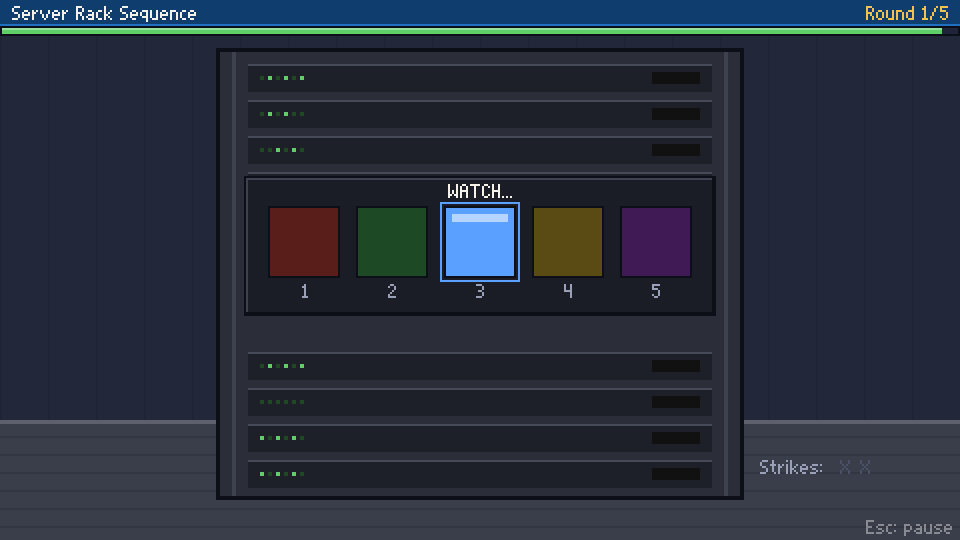
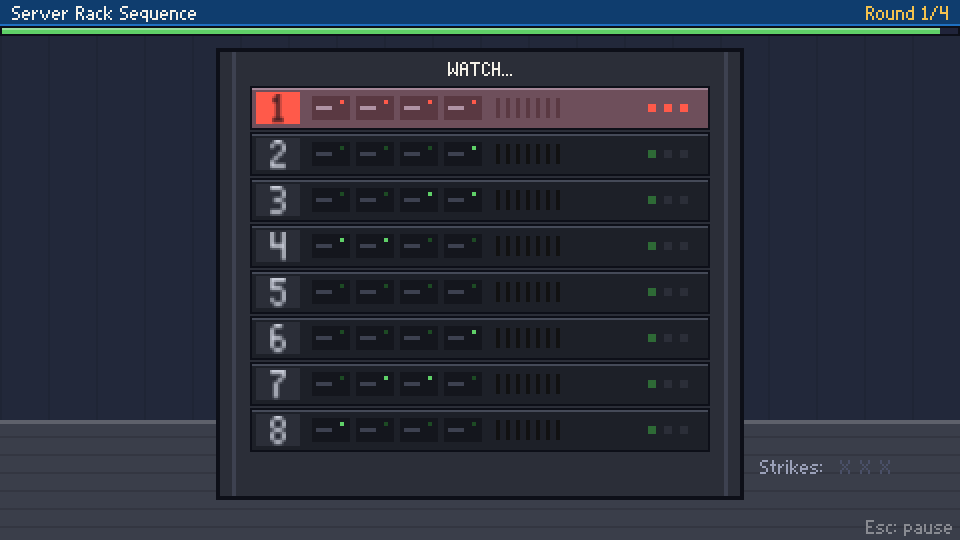
Server Rack Sequence: eight numbered servers blink instead of coloured boxes
The rack holds servers 1-8; a blinking server lights its number plate, lights and panel in its colour.
Repeat the sequence with keys 1-8, Up/Down + Space/Enter (moving the cursor resets the idle timeout) or
a click. Guide text and screenshot updated.

Claude-Session: https://claude.ai/code/session_01M4xUiXTiGzBdKzKAVtQwx8

Changed region(s): [[0.25, 0.1185, 0.75, 0.8889]]

diff --git a/src/minigames/simon.js b/src/minigames/simon.js
@@ -1,24 +1,20 @@
-// Server Rack Sequence: watch the LEDs blink, then repeat the sequence. It grows each round.
-import { W, H, C, rect, frame, panel, drawText, backdrop, header, timerBar, Floaters, Shake, Countdown, byDiff, finish } from '../engine/mgkit.js';
+// Server Rack Sequence: watch the numbered servers in the rack blink, then repeat the sequence. It grows each round.
+import { W, C, rect, frame, drawText, backdrop, header, timerBar, Floaters, Shake, Countdown, byDiff, finish } from '../engine/mgkit.js';
 
-const LEDS = [
-  { on: '#ff5a4a', off: '#5a1e1a' },
-  { on: '#5fe070', off: '#1d4a24' },
-  { on: '#5aa0ff', off: '#1a2e55' },
-  { on: '#ffd84a', off: '#5a4a14' },
-  { on: '#d070ff', off: '#401a55' },
-  { on: '#ff9a3a', off: '#5a3210' },
-];
+const N = 8; // servers in the rack, numbered 1-8 from the top
+const GLOW = ['#ff5a4a', '#5fe070', '#5aa0ff', '#ffd84a', '#d070ff', '#ff9a3a', '#4ae0d8', '#ff7ab8']; // each server's light
+const RACK = { x: 110, y: 24, w: 260, h: 226 };
+const UNIT = { x: RACK.x + 16, w: RACK.w - 32, h: 20, step: 23, top: 44 };
+const unitY = (i) => UNIT.top + i * UNIT.step;
 
 export default {
   id: 'simon',
   name: 'Server Rack Sequence',
-  help: 'Watch the lights, then repeat them with keys 1-6 or by clicking. Each round adds one more.',
+  help: 'Watch the servers blink, then repeat them: keys 1-8, Up/Down + Space, or click a server. Each round adds one more.',
   create({ difficulty: d, rng, theme, sfx = () => {} }) {
-    const n = d < 0.34 ? 4 : d < 0.67 ? 5 : 6;
     const maxLen = Math.round(byDiff(d, 5, 9));
     const rounds = maxLen - 2;
-    const seq = Array.from({ length: maxLen }, () => rng.int(0, n - 1));
+    const seq = Array.from({ length: maxLen }, () => rng.int(0, N - 1));
     const flashT = byDiff(d, 0.55, 0.3);
     const gapT = flashT * 0.45;
     const maxStrikes = d < 0.5 ? 3 : 2;
@@ -36,12 +32,7 @@ export default {
     let litT = 0;
     let status = 'WATCH...';
     let anim = 0;
-
-    const ledW = 34;
-    const gap = 10;
-    const rowW = n * ledW + (n - 1) * gap;
-    const ledX = (i) => W / 2 - rowW / 2 + i * (ledW + gap);
-    const ledY = 104;
+    let cursor = 0; // the server Up/Down points at (Space/Enter pushes it)
 
     function startShow() {
       phase = 'show';
@@ -67,7 +58,7 @@ export default {
           t = 0.7;
           status = 'NICE!';
         }
-      } else fail('Wrong light!');
+      } else fail('Wrong server!');
     }
 
     function fail(msg) {
@@ -110,13 +101,17 @@ export default {
           }
         } else if (phase === 'input') {
           idle += dt;
-          for (let i = 0; i < n; i++) if (input.pressedExact(String(i + 1))) return press(i);
-          const p = input.pointer;
-          if (p.clicked) {
-            for (let i = 0; i < n; i++) {
-              if (p.x >= ledX(i) && p.x < ledX(i) + ledW && p.y >= ledY && p.y < ledY + ledW) return press(i);
-            }
+          for (let i = 0; i < N; i++) if (input.pressedExact(String(i + 1))) return press(i);
+          if (input.pressed('ArrowUp') || input.pressed('ArrowDown')) {
+            cursor = (cursor + (input.pressed('ArrowUp') ? N - 1 : 1)) % N;
+            idle = 0; // walking the cursor down the rack takes a moment
+            sfx('click');
           }
+          if (input.confirm()) return press(cursor);
+          const p = input.pointer;
+          const over = unitAt(p);
+          if (over >= 0 && p.moved) cursor = over;
+          if (p.clicked && over >= 0) return press(over);
           if (idle > 6) fail('Timed out!');
         } else if (phase === 'pause') {
           t -= dt;
@@ -129,37 +124,18 @@ export default {
         backdrop(g, { wall: '#22283a', desk: '#3a3e4a' });
         header(g, theme?.title || 'Server Rack Sequence', `Round ${Math.min(completed + 1, rounds)}/${rounds}`);
         timerBar(g, total.left, total.total);
-        // Rack cabinet.
-        const rx = 110;
-        const rw = 260;
-        rect(g, rx - 2, 24, rw + 4, 226, C.border);
-        rect(g, rx, 26, rw, 222, '#2b2e38');
-        rect(g, rx + 6, 26, 2, 222, '#3d4150');
-        rect(g, rx + rw - 8, 26, 2, 222, '#3d4150');
-        for (let y = 32; y < 244; y += 18) {
-          if (y > 86 && y < 160) continue;
-          rect(g, rx + 14, y, rw - 28, 14, '#1d2028');
-          rect(g, rx + 14, y, rw - 28, 1, '#454a58');
-          for (let k = 0; k < 6; k++) rect(g, rx + 20 + k * 4, y + 6, 2, 2, Math.sin(anim * 7 + y + k * 3) > 0.3 ? '#5fd068' : '#1d4a24');
-          rect(g, rx + rw - 44, y + 4, 24, 6, '#111');
-        }
-        // LED panel.
-        panel(g, rx + 12, 88, rw - 24, 70, { fill: '#1a1d26', light: '#3d4150', dark: '#0d0f18' });
-        for (let i = 0; i < n; i++) {
-          const x = ledX(i);
-          const on = lit === i && (phase === 'show' || litT > 0);
-          rect(g, x - 1, ledY - 1, ledW + 2, ledW + 2, C.border);
-          rect(g, x, ledY, ledW, ledW, on ? LEDS[i].on : LEDS[i].off);
-          if (on) {
-            rect(g, x + 3, ledY + 3, ledW - 6, 4, 'rgba(255,255,255,0.55)');
-            frame(g, x - 3, ledY - 3, ledW + 6, ledW + 6, LEDS[i].on);
-          }
-          drawText(g, String(i + 1), x + ledW / 2, ledY + ledW + 4, { align: 'center', color: C.dim });
-        }
-        drawText(g, status, W / 2, 92, { align: 'center', color: phase === 'input' ? C.gold : C.text });
+        // Rack cabinet: rails, then the eight numbered servers.
+        rect(g, RACK.x - 2, RACK.y, RACK.w + 4, RACK.h, C.border);
+        rect(g, RACK.x, RACK.y + 2, RACK.w, RACK.h - 4, '#2b2e38');
+        rect(g, RACK.x + 6, RACK.y + 2, 2, RACK.h - 4, '#3d4150');
+        rect(g, RACK.x + RACK.w - 8, RACK.y + 2, 2, RACK.h - 4, '#3d4150');
+        drawText(g, status, W / 2, RACK.y + 7, { align: 'center', color: phase === 'input' ? C.gold : C.text });
+        for (let i = 0; i < N; i++) drawServer(g, i, lit === i && (phase === 'show' || litT > 0));
+        // The cursor last, so the server below doesn't cover its bottom edge.
+        if (phase === 'input') frame(g, UNIT.x - 2, unitY(cursor) - 2, UNIT.w + 4, UNIT.h + 4, C.gold);
         // Progress + strikes.
         if (phase === 'input') {
-          for (let i = 0; i < len; i++) rect(g, W / 2 - len * 4 + i * 8, 170, 6, 4, i < inputIdx ? C.good : C.panelLight);
+          for (let i = 0; i < len; i++) rect(g, W / 2 - len * 4 + i * 8, unitY(N) + 3, 6, 4, i < inputIdx ? C.good : C.panelLight);
         }
         drawText(g, 'Strikes:', 380, 230, { color: C.dim });
         for (let i = 0; i < maxStrikes; i++) drawText(g, 'X', 420 + i * 10, 230, { color: i < strikes ? C.bad : '#4a5068' });
@@ -167,6 +143,40 @@ export default {
         g.restore();
       },
     };
+    function unitAt(p) {
+      if (p.x < UNIT.x || p.x >= UNIT.x + UNIT.w) return -1;
+      for (let i = 0; i < N; i++) if (p.y >= unitY(i) && p.y < unitY(i) + UNIT.h) return i;
+      return -1;
+    }
+
+    // One 1U-style server: its number on the left, drive bays, vents and status lights. Blinking = the whole front
+    // panel lights up in the server's colour.
+    function drawServer(g, i, on) {
+      const y = unitY(i);
+      const { x, w, h } = UNIT;
+      rect(g, x - 1, y - 1, w + 2, h + 2, C.border);
+      rect(g, x, y, w, h, on ? '#454c60' : '#1d2028');
+      rect(g, x, y, w, 1, on ? '#8a93ad' : '#454a58');
+      // Number plate.
+      rect(g, x + 2, y + 2, 22, h - 4, on ? GLOW[i] : '#2b2e38');
+      drawText(g, String(i + 1), x + 13, y + 3, { align: 'center', scale: 2, color: on ? C.border : '#c8ccd8' });
+      // Drive bays.
+      for (let k = 0; k < 4; k++) {
+        const bx = x + 30 + k * 22;
+        rect(g, bx, y + 4, 19, h - 8, on ? '#2b3040' : '#14161d');
+        rect(g, bx + 2, y + h / 2 - 1, 8, 2, on ? '#9aa3bd' : '#3d4150');
+        rect(g, bx + 14, y + 6, 2, 2, on ? GLOW[i] : Math.sin(anim * 5 + i * 1.7 + k) > 0.5 ? '#5fd068' : '#1d4a24');
+      }
+      // Vents and status lights.
+      for (let k = 0; k < 7; k++) rect(g, x + 122 + k * 5, y + 5, 2, h - 10, on ? '#2b3040' : '#111');
+      for (let k = 0; k < 3; k++) rect(g, x + w - 30 + k * 8, y + h / 2 - 2, 4, 4, on ? GLOW[i] : k === 0 ? '#2e6a36' : '#2b2e38');
+      if (on) {
+        g.globalAlpha = 0.22;
+        rect(g, x, y, w, h, GLOW[i]);
+        g.globalAlpha = 1;
+      }
+    }
+
     return inst;
   },
 };

diff --git a/public/how-to-play/index.html b/public/how-to-play/index.html
@@ -1082,8 +1082,8 @@
         <img src="img/mg-simon.png" width="960" height="540" loading="lazy" alt="Server Rack Sequence mini-game screenshot" />
         <div class="game-body">
           <h4>Server Rack Sequence <span class="tag">2 coffee</span></h4>
-          <p>The server rack blinks a sequence of lights. Repeat it from memory; every round adds one more light.</p>
-          <p class="controls"><b>Controls:</b> Watch the lights, then repeat them with keys 1-6 or by clicking. Each round adds one more.</p>
+          <p>The eight numbered servers in the rack blink in a sequence. Repeat it from memory; every round adds one more server.</p>
+          <p class="controls"><b>Controls:</b> Watch the servers blink, then repeat them: keys 1-8, Up/Down + Space, or click a server. Each round adds one more.</p>
         </div>
       </article>
       <article class="game" id="game-order">
